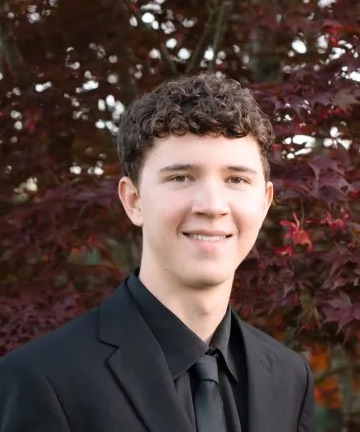
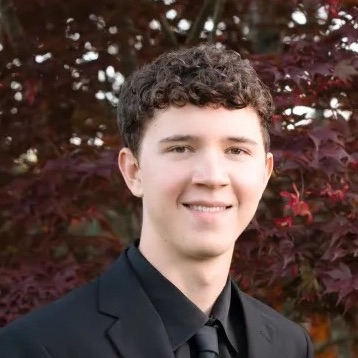
Fixed humans and resized images

diff --git a/src/app/humans/page.jsx b/src/app/humans/page.jsx
@@ -12,7 +12,7 @@ export default function Humans() {
       name: "Colter Radke",
       class: "2027",
       major: "Data Science with a Minor in Biblical Languages",
-      pic: "public/images/ColterR.jpeg",
+      pic: "/images/ColterR.jpeg",
       linkedin: "https://www.linkedin.com/in/colter-radke/",
       github: "https://github.com/Colter13",
       color: 'text-blue-200'
@@ -22,7 +22,7 @@ export default function Humans() {
       name: "Nathan O'Neill",
       class: "2027",
       major: "Software Engineering",
-      pic: "public/images/NateO.jpeg",
+      pic: "/images/NateO.jpeg",
       linkedin: "https://www.linkedin.com/in/nathanoneill1/",
       github: "https://github.com/Nathanoneill1",
       color: 'text-green-800'
@@ -33,7 +33,7 @@ export default function Humans() {
       name: "Will Cook",
       class: "2028",
       major: "Software Engineering and Data Science",
-      pic: "public/images/WillC.jpeg",
+      pic: "/images/WillC.jpeg",
       linkedin: "https://www.linkedin.com/in/willaurum/",
       github: 'https://github.com/willaurum',
       color: 'text-[#b5c997]'
@@ -43,18 +43,17 @@ export default function Humans() {
       name: "Caleb Hellmund",
       class: "2027",
       major: "Computer Engineering",
-      pic: "public/images/CalebH.jpeg",
+      pic: "/images/CalebH.jpeg",
       linkedin: "https://www.linkedin.com/in/caleb-hellmund/",
       github: "https://github.com/CalebHellmund",
       color: 'text-blue-200'
-      
     },
     {
       title: "Treasurer",
       name: "Nathanael Chu",
       class: "2028",
       major: "Data Science with a Minor in Mathematics",
-      pic: "public/images/NateC.jpeg",
+      pic: "/images/NateC.jpeg",
       linkedin: "https://www.linkedin.com/in/nathanael-chu-870200271/",
       github: "https://github.com/natechuchu",
       color: 'text-blue-200'
